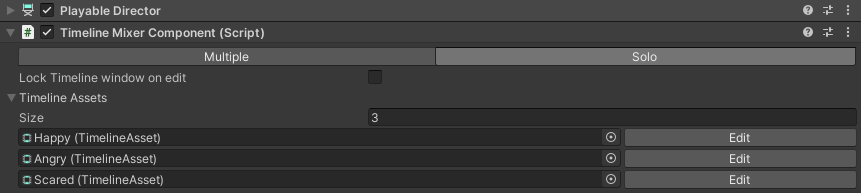
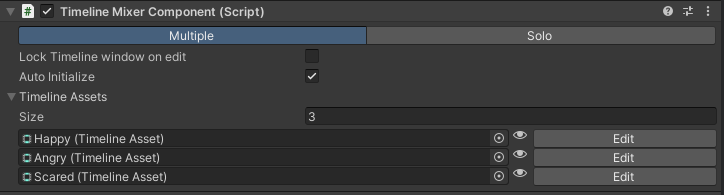
1.5.0 docs refinement

diff --git a/modes.html b/modes.html
@@ -98,27 +98,30 @@ $(function(){initNavTree('modes.html','',''); });
 <li>How many timelines may be active simultaneously</li>
 <li>Whether animation balancing is applied</li>
 </ul>
+<p><img src="modes.png" alt="" class="inline"/>    </p>
+<p><img src="unsafemode.png" alt="" class="inline"/>    </p>
 <table class="markdownTable">
 <tr class="markdownTableHead">
-<th class="markdownTableHeadNone">Mode  </th><th class="markdownTableHeadNone">Multiple Active Timelines  </th><th class="markdownTableHeadNone">Animation Balancing  </th><th class="markdownTableHeadNone">Intended Use  </th></tr>
+<th class="markdownTableHeadNone">Mode  </th><th class="markdownTableHeadNone">Multiple Active Timelines  </th><th class="markdownTableHeadNone">Animation Balancing  </th><th class="markdownTableHeadNone">Visible in inspector  </th><th class="markdownTableHeadNone">Intended Use  </th></tr>
 <tr class="markdownTableRowOdd">
-<td class="markdownTableBodyNone">Multiple  </td><td class="markdownTableBodyNone">Yes  </td><td class="markdownTableBodyNone">Enabled  </td><td class="markdownTableBodyNone">Layered blending or general sequencing  </td></tr>
+<td class="markdownTableBodyNone">Multiple  </td><td class="markdownTableBodyNone">Yes  </td><td class="markdownTableBodyNone">Enabled  </td><td class="markdownTableBodyNone">Yes  </td><td class="markdownTableBodyNone">Layered blending or general sequencing  </td></tr>
 <tr class="markdownTableRowEven">
-<td class="markdownTableBodyNone">Solo  </td><td class="markdownTableBodyNone">No  </td><td class="markdownTableBodyNone">Enabled  </td><td class="markdownTableBodyNone">State-style switching  </td></tr>
+<td class="markdownTableBodyNone">Solo  </td><td class="markdownTableBodyNone">No  </td><td class="markdownTableBodyNone">Enabled  </td><td class="markdownTableBodyNone">Yes  </td><td class="markdownTableBodyNone">State-style switching  </td></tr>
 <tr class="markdownTableRowOdd">
-<td class="markdownTableBodyNone">Animation Unsafe  </td><td class="markdownTableBodyNone">Yes  </td><td class="markdownTableBodyNone">Disabled  </td><td class="markdownTableBodyNone">Advanced / debugging use  </td></tr>
+<td class="markdownTableBodyNone">Animation Unsafe  </td><td class="markdownTableBodyNone">Yes  </td><td class="markdownTableBodyNone">Disabled  </td><td class="markdownTableBodyNone">When Active  </td><td class="markdownTableBodyNone">Advanced / debugging use  </td></tr>
 </table>
 <blockquote class="doxtable">
 <p>The “Intended Use” column reflects common usage patterns, not strict limitations. Modes may be used in any workflow that fits your design. </p>
 </blockquote>
-<h2 class="doxsection"><a class="anchor" id="autotoc_md18"></a>
+<hr  />
+<h2 class="doxsection"><a class="anchor" id="autotoc_md19"></a>
 Multiple Mode</h2>
 <p>Allows multiple timelines to be active and blended simultaneously. If animation tracks target the same object, Timeline Mixer automatically balances animation weights to prevent conflicts.</p>
-<h2 class="doxsection"><a class="anchor" id="autotoc_md19"></a>
+<h2 class="doxsection"><a class="anchor" id="autotoc_md20"></a>
 Solo Mode</h2>
 <p>Ensures that only one timeline remains active at a time.</p>
 <p>Calling <span class="tt">FadeIn</span> on a timeline automatically triggers <span class="tt">FadeOut</span> on all other active timelines.</p>
-<h2 class="doxsection"><a class="anchor" id="autotoc_md20"></a>
+<h2 class="doxsection"><a class="anchor" id="autotoc_md21"></a>
 Animation Unsafe Mode</h2>
 <p>Allows multiple timelines to be active, but disables animation balancing.</p>
 <p>When multiple animation tracks target the same object, no automatic weight correction is applied. This may result in unexpected and unpredictable blending behavior.</p>

diff --git a/processors.html b/processors.html
@@ -103,8 +103,7 @@ $(function(){initNavTree('processors.html','',''); });
 <img src="TrackProcessors_Signal.png" alt=""/>
 </div>
     <p>Track processors manage the section highlighted in red. They connect the Timeline to any required mixer and other playables, and then to the output (which is bound to your component).</p>
-<p>In signal tracks, this Passthrough playable is not strictly necessary but serves as a good example for creating a custom track processor with your own mixer.</p>
-<h2 class="doxsection"><a class="anchor" id="autotoc_md26"></a>
+<h2 class="doxsection"><a class="anchor" id="autotoc_md27"></a>
 Custom Track Processors</h2>
 <p>You can customize how the timeline connects to its outputs on the Playable Graph by using a custom Track Processor. If your custom track doesn't have a specialized track processor, <a class="el" href="namespace_timeline_mixer.html">TimelineMixer</a> will use a default one.</p>
 <p>To create one, follow these steps:</p>
@@ -173,10 +172,11 @@ Custom Track Processors</h2>
 <div class="line">    }</div>
 </div><!-- fragment --><p>This example would make a track processor that is applied to a custom timeline track called LightControlTrack.</p>
 <blockquote class="doxtable">
-<p>Track processors are discovered automatically at runtime through reflection </p>
+<p>Track processors are discovered automatically at runtime through reflection and cached, one instance of each track processor is activated </p>
 </blockquote>
-<h2 class="doxsection"><a class="anchor" id="autotoc_md27"></a>
+<h2 class="doxsection"><a class="anchor" id="autotoc_md28"></a>
 The PlayableNode class</h2>
+<p><a class="el" href="class_timeline_mixer_1_1_playable_node.html" title="TimelineMixer.PlayableNode">TimelineMixer.PlayableNode</a></p>
 <p>PlayableNode provides a lot of quality of life features, its purpose is to wrap a Playable such as AnimationMixerPlayable and track its connections, and make connecting and disconnecting easier.</p>
 <p>You can find out what ports on one Playable are connected which ports on another, not an easy task normally.</p>
 <p>Instead of directly connecting Playables to each other, wrap them in a PlayableNode and use that to connect to other PlayableNodes. Doing this tracks all your connections, and makes navigating downstream AND upstream on the graph possible in an easy way. </p>

diff --git a/search/all_10.js b/search/all_10.js
@@ -4,9 +4,9 @@ var searchData=
   ['play_1',['Play',['../class_timeline_mixer_1_1_timeline_mixer_component.html#a3d6e28f7abdbe16638e2600b443ffdad',1,'TimelineMixer.TimelineMixerComponent.Play(string timelineAssetName, float startTime=-1f, int? loopMode=null)'],['../class_timeline_mixer_1_1_timeline_mixer_component.html#ac002599f256468d8c24e3463785007f1',1,'TimelineMixer.TimelineMixerComponent.Play(TimelineAsset timelineAsset, float startTime=-1f, int? loopPlayback=null)']]],
   ['playableconnectioninfo_2',['PlayableConnectionInfo',['../class_timeline_mixer_1_1_playable_connection_info.html',1,'TimelineMixer']]],
   ['playablenode_3',['PlayableNode',['../class_timeline_mixer_1_1_playable_node.html',1,'TimelineMixer']]],
-  ['playablenode_20class_4',['The PlayableNode class',['../processors.html#autotoc_md27',1,'']]],
+  ['playablenode_20class_4',['The PlayableNode class',['../processors.html#autotoc_md28',1,'']]],
   ['playback_20at_20runtime_5',['Playback at Runtime',['../getting_started.html#autotoc_md15',1,'']]],
   ['policy_6',['📫 Contact Policy',['../contact.html#autotoc_md7',1,'']]],
-  ['processors_7',['Processors',['../processors.html#autotoc_md26',1,'Custom Track Processors'],['../processors.html',1,'Track Processors']]],
+  ['processors_7',['Processors',['../processors.html#autotoc_md27',1,'Custom Track Processors'],['../processors.html',1,'Track Processors']]],
   ['processtrack_8',['ProcessTrack',['../class_timeline_mixer_1_1_audio_track_processor.html#a94e322b812d2650828189e38b516004c',1,'TimelineMixer.AudioTrackProcessor.ProcessTrack()'],['../class_timeline_mixer_1_1_marker_track_processor.html#ac791c5c15cbf4a60833ed3ac46d772d5',1,'TimelineMixer.MarkerTrackProcessor.ProcessTrack()'],['../class_timeline_mixer_1_1_signal_track_processor.html#aeee9f1c954ab544c19ca24811606173f',1,'TimelineMixer.SignalTrackProcessor.ProcessTrack()'],['../class_timeline_mixer_1_1_track_processor.html#a0d701595963ebd3e739438f94587205a',1,'TimelineMixer.TrackProcessor.ProcessTrack()']]]
 ];

diff --git a/search/all_14.js b/search/all_14.js
@@ -1,8 +1,8 @@
 var searchData=
 [
   ['targetweights_0',['targetWeights',['../class_timeline_mixer_1_1_animation_balancer.html#a8e8c1245514547506ac2d4dcee66a350',1,'TimelineMixer::AnimationBalancer']]],
-  ['the_20playablenode_20class_1',['The PlayableNode class',['../processors.html#autotoc_md27',1,'']]],
-  ['time_2',['Start Time',['../tm_window.html#autotoc_md25',1,'']]],
+  ['the_20playablenode_20class_1',['The PlayableNode class',['../processors.html#autotoc_md28',1,'']]],
+  ['time_2',['Start Time',['../tm_window.html#autotoc_md26',1,'']]],
   ['timeline_20assets_3',['Adding Timeline Assets',['../add_at_runtime.html#autotoc_md1',1,'']]],
   ['timeline_20assets_20at_20runtime_4',['Removing Timeline Assets at Runtime',['../add_at_runtime.html#autotoc_md4',1,'']]],
   ['timeline_20mixer_20documentation_5',['Timeline Mixer Documentation',['../index.html',1,'']]],
@@ -21,7 +21,7 @@ var searchData=
   ['timelines_20at_20runtime_18',['Adding and Removing Timelines at Runtime',['../add_at_runtime.html',1,'manual']]],
   ['to_20hear_20about_20it_20❤_19',['😁 Working on something cool? I&apos;d love to hear about it! ❤',['../contact.html#autotoc_md10',1,'']]],
   ['track_20bindings_20',['Track Bindings',['../add_at_runtime.html#autotoc_md2',1,'']]],
-  ['track_20processors_21',['Track Processors',['../processors.html#autotoc_md26',1,'Custom Track Processors'],['../processors.html',1,'Track Processors']]],
+  ['track_20processors_21',['Track Processors',['../processors.html#autotoc_md27',1,'Custom Track Processors'],['../processors.html',1,'Track Processors']]],
   ['trackprocessor_22',['TrackProcessor',['../class_timeline_mixer_1_1_track_processor.html',1,'TimelineMixer']]],
   ['trackprocessorattribute_23',['TrackProcessorAttribute',['../class_timeline_mixer_1_1_track_processor_attribute.html',1,'TimelineMixer']]],
   ['trackprocessormanager_24',['TrackProcessorManager',['../class_timeline_mixer_1_1_track_processor_manager.html',1,'TimelineMixer']]],

diff --git a/search/all_4.js b/search/all_4.js
@@ -1,6 +1,6 @@
 var searchData=
 [
-  ['class_0',['The PlayableNode class',['../processors.html#autotoc_md27',1,'']]],
+  ['class_0',['The PlayableNode class',['../processors.html#autotoc_md28',1,'']]],
   ['cleartimelineevents_1',['ClearTimelineEvents',['../class_timeline_mixer_1_1_timeline_mixer_component.html#aff3c1183e5bf33151d9c2dc757e202d3',1,'TimelineMixer::TimelineMixerComponent']]],
   ['connectionports_2',['connectionPorts',['../class_timeline_mixer_1_1_animation_balancer.html#ae09f2184f5aceec6cbca1cf6bcd316a3',1,'TimelineMixer::AnimationBalancer']]],
   ['connectplayable_3',['ConnectPlayable',['../class_timeline_mixer_1_1_track_processor.html#a53093ae244f2be49238babeadbecf4a5',1,'TimelineMixer::TrackProcessor']]],
@@ -13,5 +13,5 @@ var searchData=
   ['createmixerconnections_10',['CreateMixerConnections',['../class_timeline_mixer_1_1_timeline_mixer_playable.html#a5ac7039d1768988262d5d755e74ea130',1,'TimelineMixer::TimelineMixerPlayable']]],
   ['createtimelinemixeroutput_11',['CreateTimelineMixerOutput',['../class_timeline_mixer_1_1_timeline_mixer_playable.html#a2b08867088e45d6b4115feb2e61e7508',1,'TimelineMixer::TimelineMixerPlayable']]],
   ['crossfade_12',['Crossfade',['../class_timeline_mixer_1_1_timeline_mixer_component.html#a9592fd73e72bbff90269bcb1219ec3f1',1,'TimelineMixer.TimelineMixerComponent.Crossfade(string fadeInTimelineName, string fadeOutTimelineName, float fadeTime=1f, float startTime=-1f)'],['../class_timeline_mixer_1_1_timeline_mixer_component.html#aaadc3e0e1ee578ce3f7492d41991feb2',1,'TimelineMixer.TimelineMixerComponent.Crossfade(TimelineAsset fadeInAsset, TimelineAsset fadeOutAsset=null, float fadeTime=1f, float startTime=-1f)']]],
-  ['custom_20track_20processors_13',['Custom Track Processors',['../processors.html#autotoc_md26',1,'']]]
+  ['custom_20track_20processors_13',['Custom Track Processors',['../processors.html#autotoc_md27',1,'']]]
 ];

diff --git a/search/all_13.js b/search/all_13.js
@@ -11,12 +11,12 @@ var searchData=
   ['setwindowlock_8',['SetWindowLock',['../class_timeline_mixer_1_1_editor_1_1_simple_editor_utilities.html#abf77bcd42ad6135ab1f3f3a1969f4499',1,'TimelineMixer::Editor::SimpleEditorUtilities']]],
   ['signaltrackprocessor_9',['SignalTrackProcessor',['../class_timeline_mixer_1_1_signal_track_processor.html',1,'TimelineMixer']]],
   ['simpleeditorutilities_10',['SimpleEditorUtilities',['../class_timeline_mixer_1_1_editor_1_1_simple_editor_utilities.html',1,'TimelineMixer::Editor']]],
-  ['solo_20mode_11',['Solo Mode',['../modes.html#autotoc_md19',1,'']]],
+  ['solo_20mode_11',['Solo Mode',['../modes.html#autotoc_md20',1,'']]],
   ['solomodeswitch_12',['SoloModeSwitch',['../class_timeline_mixer_1_1_timeline_mixer_component.html#a6afdc393d46fc6107e9ca6046d8046cb',1,'TimelineMixer::TimelineMixerComponent']]],
   ['something_20cool_20i_20d_20love_20to_20hear_20about_20it_20❤_13',['😁 Working on something cool? I&apos;d love to hear about it! ❤',['../contact.html#autotoc_md10',1,'']]],
   ['spam_20fraud_14',['🚫 Spam &amp;amp; Fraud',['../contact.html#autotoc_md12',1,'']]],
-  ['start_20time_15',['Start Time',['../tm_window.html#autotoc_md25',1,'']]],
-  ['started_16',['Started',['../index.html#autotoc_md22',1,'Get Started'],['../getting_started.html',1,'Getting Started']]],
-  ['store_17',['Asset Store',['../index.html#autotoc_md23',1,'']]],
+  ['start_20time_15',['Start Time',['../tm_window.html#autotoc_md26',1,'']]],
+  ['started_16',['Started',['../index.html#autotoc_md23',1,'Get Started'],['../getting_started.html',1,'Getting Started']]],
+  ['store_17',['Asset Store',['../index.html#autotoc_md24',1,'']]],
   ['suggestions_18',['💡 Feedback and suggestions',['../contact.html#autotoc_md8',1,'']]]
 ];

diff --git a/index.html b/index.html
@@ -95,19 +95,19 @@ $(function(){initNavTree('index.html','',''); });
 <div class="contents">
 <div class="textblock"><p>Timeline Mixer extends Unity’s Timeline system with flexible playback control, smooth cross-fading, and centralized timeline management.</p>
 <p>Unity’s Playable Director works well for isolated timelines, but it does not provide a built-in workflow for coordinating multiple timelines simultaniously on a single component or implementing seamless transitions between them. Timeline Mixer introduces a system for dynamically blending and controlling timelines from a single component.</p>
-<h3 class="doxsection"><a class="anchor" id="autotoc_md21"></a>
+<h3 class="doxsection"><a class="anchor" id="autotoc_md22"></a>
 Key Features</h3>
 <ul>
-<li>Dynamic cross-fading between Timeline assets</li>
+<li>Dynamic cross-fading between timeline assets</li>
+<li>Blend timelines with animator controllers</li>
 <li>Centralized management of multiple Timeline assets</li>
 <li>Cleaner scene hierarchy (no scattered Playable Directors)</li>
-<li>Blending support alongside Animator Controllers</li>
 <li>Minimal setup with a single controlling component</li>
 </ul>
-<h3 class="doxsection"><a class="anchor" id="autotoc_md22"></a>
+<h3 class="doxsection"><a class="anchor" id="autotoc_md23"></a>
 Get Started</h3>
 <p>New to Timeline Mixer? Start with: <a class="el" href="getting_started.html" title="Getting Started">Getting Started</a></p>
-<h3 class="doxsection"><a class="anchor" id="autotoc_md23"></a>
+<h3 class="doxsection"><a class="anchor" id="autotoc_md24"></a>
 Asset Store</h3>
 <p>Available on the Unity Asset Store: <a href="https://u3d.as/2Ujn">View on the Asset Store</a></p>
 <div class="image">

diff --git a/search/all_2.js b/search/all_2.js
@@ -15,12 +15,12 @@ var searchData=
   ['and_20up_12',['Animancer version 8.1 and up',['../animancer.html#autotoc_md17',1,'']]],
   ['animancer_13',['Animancer',['../animancer.html',1,'integrations']]],
   ['animancer_20version_208_201_20and_20up_14',['Animancer version 8.1 and up',['../animancer.html#autotoc_md17',1,'']]],
-  ['animation_20unsafe_20mode_15',['Animation Unsafe Mode',['../modes.html#autotoc_md20',1,'']]],
+  ['animation_20unsafe_20mode_15',['Animation Unsafe Mode',['../modes.html#autotoc_md21',1,'']]],
   ['animationbalancer_16',['AnimationBalancer',['../class_timeline_mixer_1_1_animation_balancer.html',1,'TimelineMixer']]],
   ['animationmixer_17',['animationMixer',['../class_timeline_mixer_1_1_animation_balancer.html#a620bc0e5f432499549a6b5bf06c657c2',1,'TimelineMixer::AnimationBalancer']]],
   ['animationtrackprocessor_18',['AnimationTrackProcessor',['../class_timeline_mixer_1_1_animation_track_processor.html',1,'TimelineMixer']]],
   ['animator_20controllers_19',['Animator Controllers',['../animator.html',1,'manual']]],
-  ['asset_20store_20',['Asset Store',['../index.html#autotoc_md23',1,'']]],
+  ['asset_20store_20',['Asset Store',['../index.html#autotoc_md24',1,'']]],
   ['assets_21',['Adding Timeline Assets',['../add_at_runtime.html#autotoc_md1',1,'']]],
   ['assets_20at_20runtime_22',['Removing Timeline Assets at Runtime',['../add_at_runtime.html#autotoc_md4',1,'']]],
   ['at_20runtime_23',['at Runtime',['../add_at_runtime.html',1,'Adding and Removing Timelines at Runtime'],['../getting_started.html#autotoc_md15',1,'Playback at Runtime'],['../rebinding.html',1,'Rebinding Tracks at Runtime'],['../add_at_runtime.html#autotoc_md4',1,'Removing Timeline Assets at Runtime']]],

diff --git a/search/pages_13.js b/search/pages_13.js
@@ -1,7 +1,7 @@
 var searchData=
 [
-  ['the_20playablenode_20class_0',['The PlayableNode class',['../processors.html#autotoc_md27',1,'']]],
-  ['time_1',['Start Time',['../tm_window.html#autotoc_md25',1,'']]],
+  ['the_20playablenode_20class_0',['The PlayableNode class',['../processors.html#autotoc_md28',1,'']]],
+  ['time_1',['Start Time',['../tm_window.html#autotoc_md26',1,'']]],
   ['timeline_20assets_2',['Adding Timeline Assets',['../add_at_runtime.html#autotoc_md1',1,'']]],
   ['timeline_20assets_20at_20runtime_3',['Removing Timeline Assets at Runtime',['../add_at_runtime.html#autotoc_md4',1,'']]],
   ['timeline_20mixer_20documentation_4',['Timeline Mixer Documentation',['../index.html',1,'']]],
@@ -9,7 +9,7 @@ var searchData=
   ['timelines_20at_20runtime_6',['Adding and Removing Timelines at Runtime',['../add_at_runtime.html',1,'manual']]],
   ['to_20hear_20about_20it_20❤_7',['😁 Working on something cool? I&apos;d love to hear about it! ❤',['../contact.html#autotoc_md10',1,'']]],
   ['track_20bindings_8',['Track Bindings',['../add_at_runtime.html#autotoc_md2',1,'']]],
-  ['track_20processors_9',['Track Processors',['../processors.html#autotoc_md26',1,'Custom Track Processors'],['../processors.html',1,'Track Processors']]],
+  ['track_20processors_9',['Track Processors',['../processors.html#autotoc_md27',1,'Custom Track Processors'],['../processors.html',1,'Track Processors']]],
   ['tracks_10',['Disconnecting Tracks',['../add_at_runtime.html#autotoc_md3',1,'']]],
   ['tracks_20at_20runtime_11',['Rebinding Tracks at Runtime',['../rebinding.html',1,'manual']]]
 ];

diff --git a/search/all_7.js b/search/all_7.js
@@ -6,7 +6,7 @@ var searchData=
   ['fadeto_3',['FadeTo',['../class_timeline_mixer_1_1_fade_to.html',1,'TimelineMixer.FadeTo'],['../class_timeline_mixer_1_1_timeline_mixer_base.html#adab9ca4d0dddf7e07e62403d0f84ac19',1,'TimelineMixer.TimelineMixerBase.FadeTo()'],['../class_timeline_mixer_1_1_timeline_mixer_component.html#a541773325a92504b854cfb3be070e90b',1,'TimelineMixer.TimelineMixerComponent.FadeTo(string timelineAssetName, float targetWeight, float fadeTime=1f, float startTime=-1, int? loopMode=null)'],['../class_timeline_mixer_1_1_timeline_mixer_component.html#a547f696d0751eeb27074eadcd5b09d6b',1,'TimelineMixer.TimelineMixerComponent.FadeTo(TimelineAsset timelineAsset, float targetWeight, float fadeTime=1f, float startTime=-1, int? loopMode=null, float easeOut=-1)']]],
   ['fast_20forward_20rewind_4',['Fast Forward / Rewind',['../getting_started.html#autotoc_md16',1,'']]],
   ['feature_20request_5',['Found a Bug or Have a Feature Request?',['../contact.html',1,'manual']]],
-  ['features_6',['Key Features',['../index.html#autotoc_md21',1,'']]],
+  ['features_6',['Key Features',['../index.html#autotoc_md22',1,'']]],
   ['features_7',['❓ Questions about features',['../contact.html#autotoc_md9',1,'']]],
   ['feedback_20and_20suggestions_8',['💡 Feedback and suggestions',['../contact.html#autotoc_md8',1,'']]],
   ['forward_20rewind_9',['Fast Forward / Rewind',['../getting_started.html#autotoc_md16',1,'']]],

diff --git a/search/pages_2.js b/search/pages_2.js
@@ -12,9 +12,9 @@ var searchData=
   ['and_20up_9',['Animancer version 8.1 and up',['../animancer.html#autotoc_md17',1,'']]],
   ['animancer_10',['Animancer',['../animancer.html',1,'integrations']]],
   ['animancer_20version_208_201_20and_20up_11',['Animancer version 8.1 and up',['../animancer.html#autotoc_md17',1,'']]],
-  ['animation_20unsafe_20mode_12',['Animation Unsafe Mode',['../modes.html#autotoc_md20',1,'']]],
+  ['animation_20unsafe_20mode_12',['Animation Unsafe Mode',['../modes.html#autotoc_md21',1,'']]],
   ['animator_20controllers_13',['Animator Controllers',['../animator.html',1,'manual']]],
-  ['asset_20store_14',['Asset Store',['../index.html#autotoc_md23',1,'']]],
+  ['asset_20store_14',['Asset Store',['../index.html#autotoc_md24',1,'']]],
   ['assets_15',['Adding Timeline Assets',['../add_at_runtime.html#autotoc_md1',1,'']]],
   ['assets_20at_20runtime_16',['Removing Timeline Assets at Runtime',['../add_at_runtime.html#autotoc_md4',1,'']]],
   ['at_20runtime_17',['at Runtime',['../add_at_runtime.html',1,'Adding and Removing Timelines at Runtime'],['../getting_started.html#autotoc_md15',1,'Playback at Runtime'],['../rebinding.html',1,'Rebinding Tracks at Runtime'],['../add_at_runtime.html#autotoc_md4',1,'Removing Timeline Assets at Runtime']]],

diff --git a/search/all_d.js b/search/all_d.js
@@ -4,7 +4,7 @@ var searchData=
   ['markertrackprocessor_1',['MarkerTrackProcessor',['../class_timeline_mixer_1_1_marker_track_processor.html',1,'TimelineMixer']]],
   ['mixer_20documentation_2',['Timeline Mixer Documentation',['../index.html',1,'']]],
   ['mixer_20window_3',['Timeline Mixer Window',['../tm_window.html',1,'manual']]],
-  ['mode_4',['Mode',['../modes.html#autotoc_md20',1,'Animation Unsafe Mode'],['../tm_window.html#autotoc_md24',1,'Loop Mode'],['../class_timeline_mixer_1_1_timeline_mixer_base.html#a37eff646927b4931cc127d79aee3e1b6',1,'TimelineMixer.TimelineMixerBase.Mode'],['../modes.html#autotoc_md18',1,'Multiple Mode'],['../modes.html#autotoc_md19',1,'Solo Mode']]],
+  ['mode_4',['Mode',['../modes.html#autotoc_md21',1,'Animation Unsafe Mode'],['../tm_window.html#autotoc_md25',1,'Loop Mode'],['../class_timeline_mixer_1_1_timeline_mixer_base.html#a37eff646927b4931cc127d79aee3e1b6',1,'TimelineMixer.TimelineMixerBase.Mode'],['../modes.html#autotoc_md19',1,'Multiple Mode'],['../modes.html#autotoc_md20',1,'Solo Mode']]],
   ['modes_5',['Modes',['../modes.html',1,'manual']]],
-  ['multiple_20mode_6',['Multiple Mode',['../modes.html#autotoc_md18',1,'']]]
+  ['multiple_20mode_6',['Multiple Mode',['../modes.html#autotoc_md19',1,'']]]
 ];
